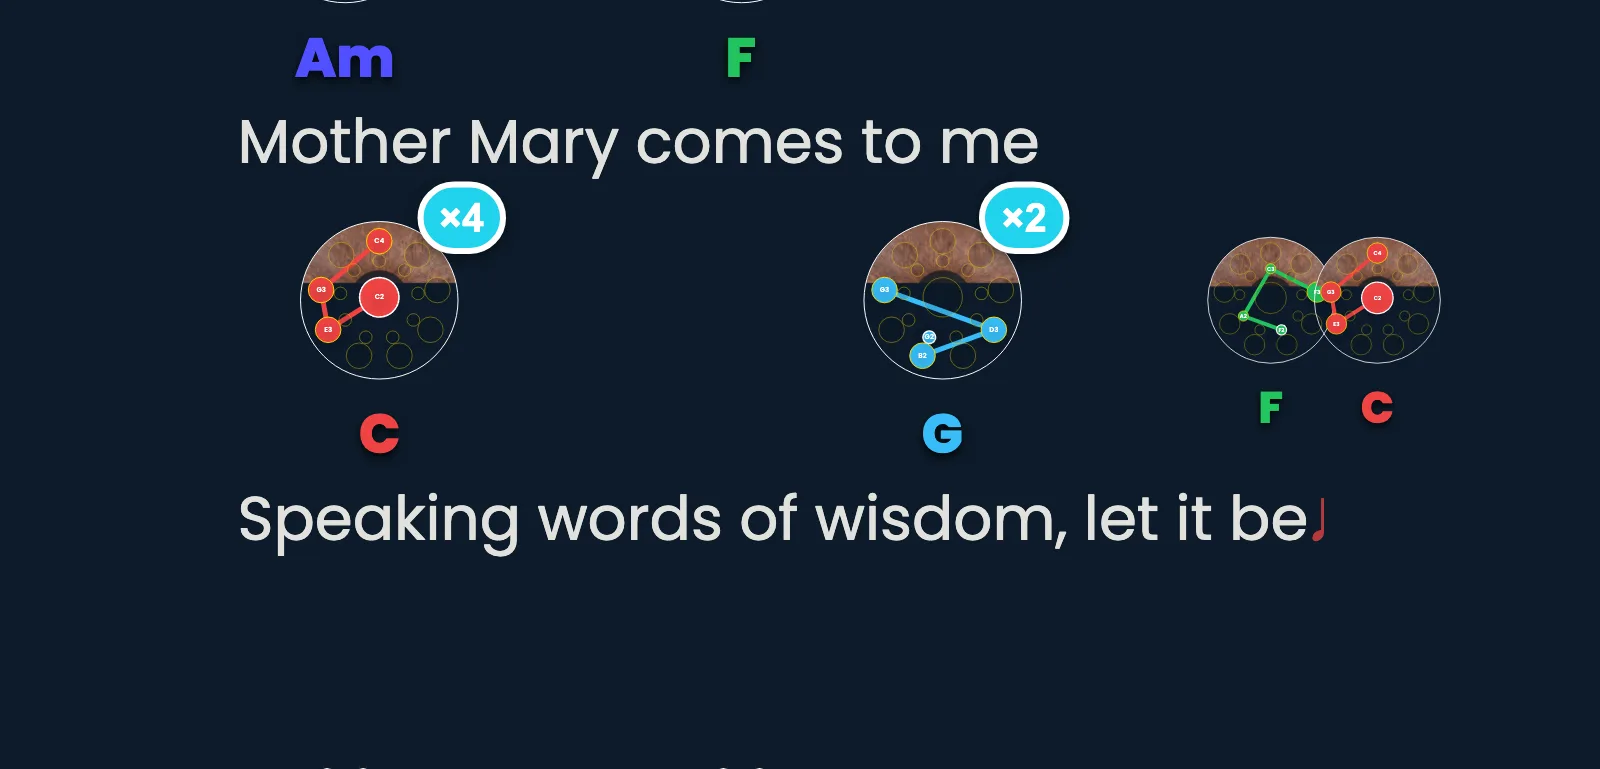
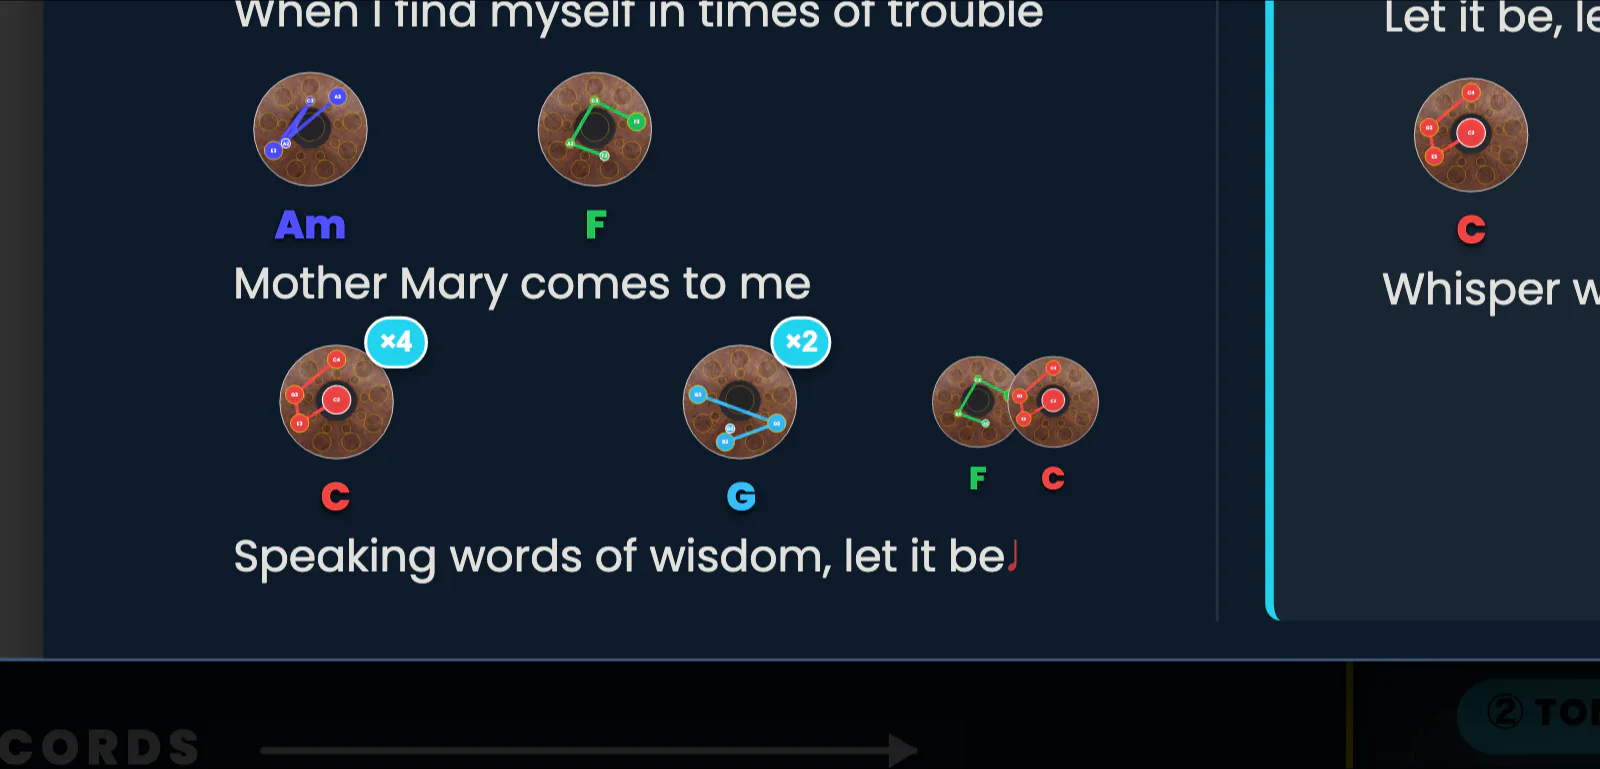
« Ta partition prend vie » : les 8 captures refaites, texture cuivrée chargée
David, 06/09 : les captures montraient des disques de handpan noirs ou à moitié peints.
Cause trouvée : le corps des mini-handpans est peint par un <pattern> SVG dont l'image
est une PHOTO servie depuis raw.githubusercontent.com — la texture noyer, celle par
défaut du Neotone. Les captures partaient avant la fin du téléchargement.

Lot v2 produit par la session APP (audits/captures-2026-09-07-article-partition-v2/,
HEAD 99e35c7) avec une règle d'attente explicite — document.fonts.ready, chargement
réel de chaque image de <defs>, 2 rAF, puis 800 ms — et un contrôle pixel disque par
disque : 9 captures, 86 disques échantillonnés, 31 à 68 % de cuivre, 0 % de noir.

Mêmes noms, mêmes dimensions, mêmes états. Seule correction de texte (FR + EN) :
la première figure ne montre plus le badge ×3, la légende ne l'annonce plus.

diff --git a/src/content/blog/ta-partition-prend-vie.md b/src/content/blog/ta-partition-prend-vie.md
@@ -27,12 +27,12 @@ Une barre **▶ / ⏸ / ⏹** joue les accords **dans l'ordre des paroles**. Le 
     src="/images/app-partition-lecteur-en-marche.webp"
     width="2000"
     height="1770"
-    alt="Handpan Constellation Studio, Éditeur de Partition Visuelle en mode Chanson, thème sombre. En haut, la barre LECTURE : le bouton de lecture affiche ⏸ (le morceau joue), un bouton d'arrêt, une bascule 🥁 Batteur, une bascule de métronome, TEMPO 80, MÉTRIQUE 4/4, et l'ATTAQUE réglée sur Arpège parmi App, Plaqué, Arpège et Arpège ↑↓. En dessous, la ligne « Batteur — Pop 4/4 · 80 · au repos ». À gauche, le panneau MODE avec Chanson sélectionné et la Tonalité C. À droite, la feuille « LET IT BE — The Beatles », badge 4/4 sous le titre, section COUPLET 1 et bloc REFRAIN encadré, avec les diagrammes d'accords C, G, Am, F posés au-dessus des paroles et les badges ×4, ×2 et ×3 sur certains accords."
+    alt="Handpan Constellation Studio, Éditeur de Partition Visuelle en mode Chanson, thème sombre. En haut, la barre LECTURE : le bouton de lecture affiche ⏸ (le morceau joue), un bouton d'arrêt, une bascule 🥁 Batteur, une bascule de métronome, TEMPO 80, MÉTRIQUE 4/4, et l'ATTAQUE réglée sur Arpège parmi App, Plaqué, Arpège et Arpège ↑↓. En dessous, la ligne « Batteur — Pop 4/4 · 80 · au repos ». À gauche, le panneau MODE avec Chanson sélectionné et la Tonalité C. À droite, la feuille « LET IT BE — The Beatles », badge 4/4 sous le titre, section COUPLET 1 et bloc REFRAIN encadré, avec les diagrammes d'accords C, G, Am, F posés au-dessus des paroles et les badges ×4 et ×2 posés sur les accords C et G de la troisième ligne."
     data-lb="partition-lecteur"
     data-lb-wide
     loading="lazy"
   />
-  <figcaption>L'éditeur pendant la lecture : le bouton affiche <strong>⏸</strong>, l'attaque est réglée sur <em>Arpège</em>, le tempo sur 80 et la métrique sur 4/4. Les diagrammes sont posés au-dessus des paroles de <em>Let It Be</em>, avec leurs badges ×4, ×2 et ×3.</figcaption>
+  <figcaption>L'éditeur pendant la lecture : le bouton affiche <strong>⏸</strong>, l'attaque est réglée sur <em>Arpège</em>, le tempo sur 80 et la métrique sur 4/4. Les diagrammes sont posés au-dessus des paroles de <em>Let It Be</em>, avec leurs badges ×4 et ×2.</figcaption>
   <p class="figure-hint"><svg viewBox="0 0 24 24" fill="none" stroke="currentColor" stroke-width="2" stroke-linecap="round" stroke-linejoin="round" aria-hidden="true"><polyline points="15 3 21 3 21 9"></polyline><polyline points="9 21 3 21 3 15"></polyline><line x1="21" y1="3" x2="14" y2="10"></line><line x1="3" y1="21" x2="10" y2="14"></line></svg>Clique sur l'image pour l'ouvrir, puis à nouveau dessus pour la taille réelle.</p>
 </figure>
 

diff --git a/src/content/blog/ta-partition-prend-vie-en.md b/src/content/blog/ta-partition-prend-vie-en.md
@@ -27,12 +27,12 @@ A **▶ / ⏸ / ⏹** bar plays the chords **in the order of the lyrics**. The c
     src="/images/app-partition-lecteur-en-marche.webp"
     width="2000"
     height="1770"
-    alt="Handpan Constellation Studio, Visual Score Editor in Song mode, dark theme. The PLAYBACK bar at the top shows a ⏸ button (the piece is playing), a stop button, a 🥁 drummer toggle, a metronome toggle, TEMPO 80, MÉTRIQUE 4/4, and the attack set to Arpège among App, Plaqué, Arpège and Arpège ↑↓. Below it, the line « Batteur — Pop 4/4 · 80 · au repos ». On the left, the MODE panel with Chanson selected and key C. On the right, the sheet « LET IT BE — The Beatles » with a 4/4 badge under the title, a COUPLET 1 section and a boxed REFRAIN block, chord diagrams C, G, Am and F placed above the lyrics, and ×4, ×2 and ×3 badges on some chords."
+    alt="Handpan Constellation Studio, Visual Score Editor in Song mode, dark theme. The PLAYBACK bar at the top shows a ⏸ button (the piece is playing), a stop button, a 🥁 drummer toggle, a metronome toggle, TEMPO 80, MÉTRIQUE 4/4, and the attack set to Arpège among App, Plaqué, Arpège and Arpège ↑↓. Below it, the line « Batteur — Pop 4/4 · 80 · au repos ». On the left, the MODE panel with Chanson selected and key C. On the right, the sheet « LET IT BE — The Beatles » with a 4/4 badge under the title, a COUPLET 1 section and a boxed REFRAIN block, chord diagrams C, G, Am and F placed above the lyrics, and ×4 and ×2 badges on the C and G chords of the third line."
     data-lb="partition-lecteur"
     data-lb-wide
     loading="lazy"
   />
-  <figcaption>The editor during playback: the button shows <strong>⏸</strong>, the attack is set to <em>Arpège</em>, tempo 80, time signature 4/4. The diagrams sit above the lyrics of <em>Let It Be</em>, with their ×4, ×2 and ×3 badges. (The interface is shown in French.)</figcaption>
+  <figcaption>The editor during playback: the button shows <strong>⏸</strong>, the attack is set to <em>Arpège</em>, tempo 80, time signature 4/4. The diagrams sit above the lyrics of <em>Let It Be</em>, with their ×4 and ×2 badges. (The interface is shown in French.)</figcaption>
   <p class="figure-hint"><svg viewBox="0 0 24 24" fill="none" stroke="currentColor" stroke-width="2" stroke-linecap="round" stroke-linejoin="round" aria-hidden="true"><polyline points="15 3 21 3 21 9"></polyline><polyline points="9 21 3 21 3 15"></polyline><line x1="21" y1="3" x2="14" y2="10"></line><line x1="3" y1="21" x2="10" y2="14"></line></svg>Click the image to open it, then click again for full size.</p>
 </figure>
 
